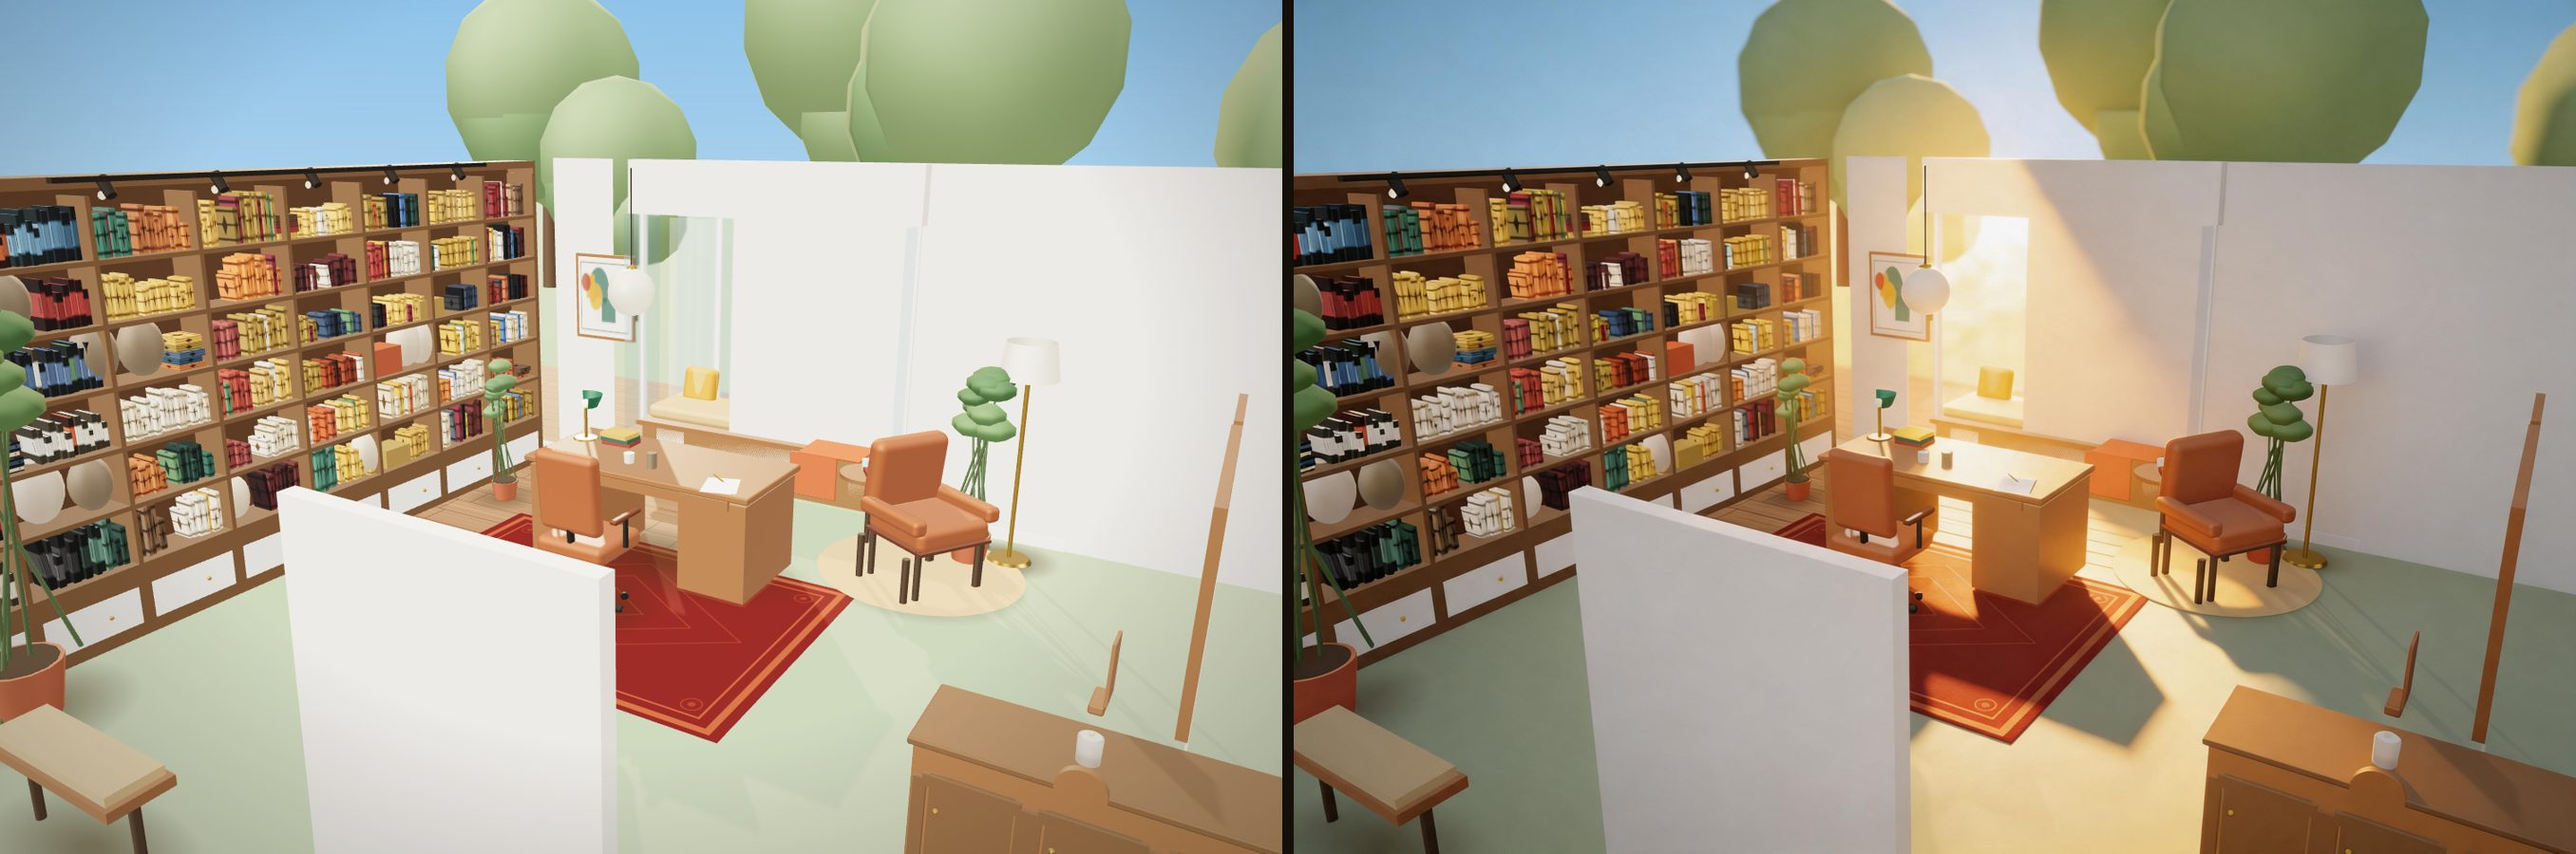
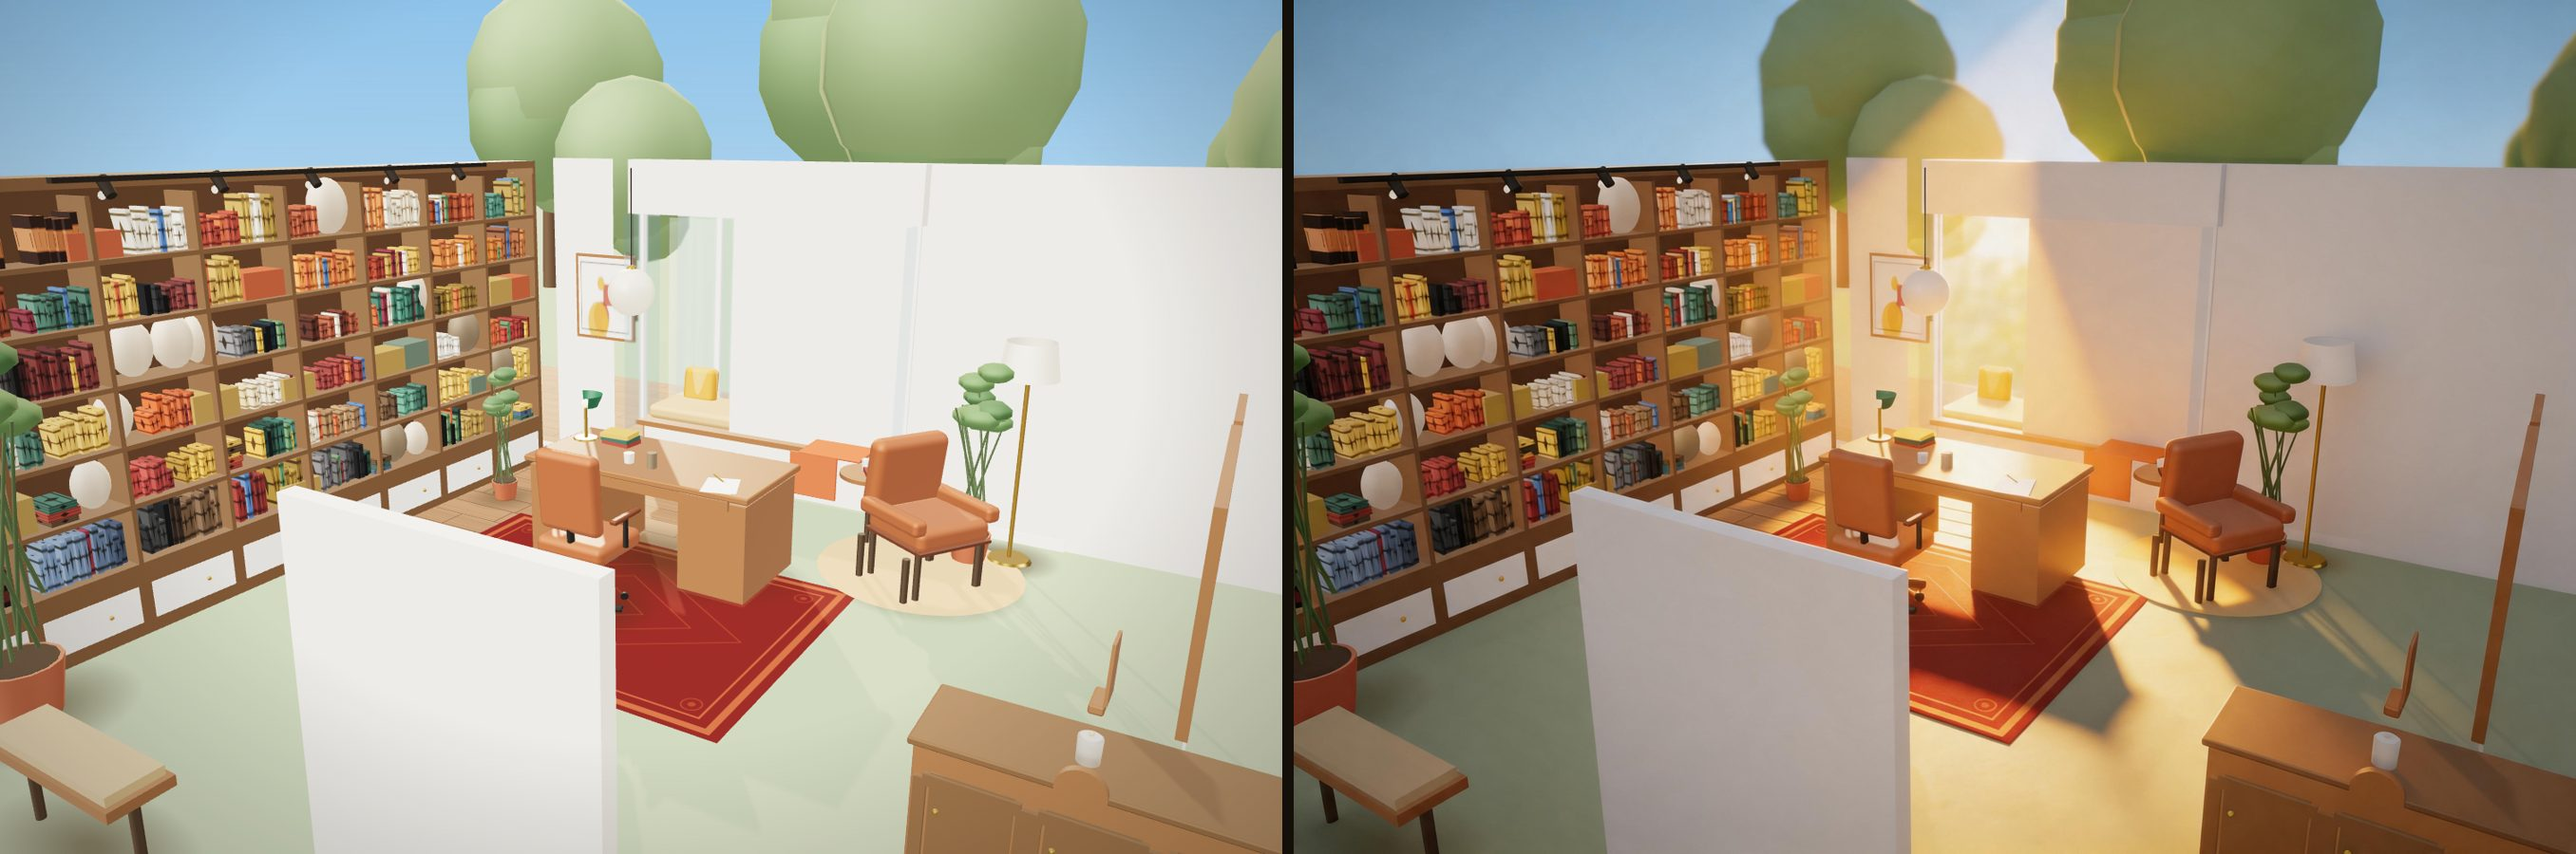
Blender 高模转椅试点：bpy 参数化建模（弧形背板/噪波皮革凹凸）→ Draco GLB(34KB) → GLTFLoader 集成 + palette 材质接管 + 程序化椅降级兜底；写实图全量刷新（剔除即梦错图1张）

diff --git a/index.html b/index.html
@@ -139,6 +139,8 @@ import * as THREE from 'three';
 import {OrbitControls} from 'three/addons/controls/OrbitControls.js';
 import {RoomEnvironment} from 'three/addons/environments/RoomEnvironment.js';
 import {RoundedBoxGeometry} from 'three/addons/geometries/RoundedBoxGeometry.js';
+import {GLTFLoader} from 'three/addons/loaders/GLTFLoader.js';
+import {DRACOLoader} from 'three/addons/loaders/DRACOLoader.js';
 
 /* ================= 基础 ================= */
 const ROOM_W = 5.0, ROOM_D = 6.0, ROOM_H = 2.8;   // x: 西→东  z: 南→北
@@ -648,7 +650,7 @@ function desk(){
     wh.rotation.z=Math.PI/2; wh.rotation.y=-a-Math.PI/2;
     wh.position.set(Math.sin(a)*.245,.027,Math.cos(a)*.245); ch.add(wh); }
   ch.traverse(o=>{if(o.isMesh)o.castShadow=true;});
-  ch.position.set(2.5,0,2.62); ch.rotation.y=0; scene.add(ch); tag(ch,'CHAIR');
+  ch.position.set(2.5,0,2.62); ch.rotation.y=0; scene.add(ch); tag(ch,'CHAIR'); window.__progChair=ch;
 }
 function brass(){return mkMat('#b08d3e',{metalness:.9,roughness:.32});}
 
@@ -870,7 +872,16 @@ let tgt=MODES.day;
 function applyMode(m){ tgt=MODES[m]; scene.background=BG[m]; }
 
 /* ================= 风格切换 ================= */
+let curStyleKey='A';
+function applyGLBPalette(root,P){
+  root.traverse(o=>{ if(!o.isMesh)return;
+    const n=(o.material&&o.material.name||'').toLowerCase();
+    if(n.includes('leather_main')) o.material.color.set(P.leather);
+    else if(n.includes('leather_pip')){ o.material.color.set(P.leather); o.material.color.offsetHSL(0,.04,-.10); }
+  });
+}
 function applyPalette(key){
+  curStyleKey=key;
   const P=PALETTES[key];
   SW.wall.color.set(P.wall); SW.trim.color.set(P.trim); SW.ceil.color.set(P.ceil);
   SW.shelf.color.set(P.shelf); SW.backP.color.set(P.backP); SW.deskW.color.set(P.desk);
@@ -878,6 +889,7 @@ function applyPalette(key){
   SW.throwM.color.set(P.throw); SW.rugS.color.set(P.rugS);
   SW.pil.forEach((m,i)=>m.color.set(P.pillows[i])); SW.baySeat.color.set(P.baySeat);
   drawFloor(P.floor); drawRug(P.rug,P.rugInk);
+  if(window.__glbChair) applyGLBPalette(window.__glbChair,P);
 }
 
 /* ================= 视角预设 ================= */
@@ -955,6 +967,23 @@ credenza();
 lightingFixtures();
 mainRug();
 applyPalette('A');
+/* Blender 高模转椅：加载成功替换程序化椅，失败自动降级 */
+window.__progChair=null;
+{
+  const loader=new GLTFLoader();
+  const draco=new DRACOLoader();
+  draco.setDecoderPath('https://cdn.jsdelivr.net/npm/three@0.160.0/examples/jsm/libs/draco/gltf/');
+  loader.setDRACOLoader(draco);
+  loader.load('blender/chair.glb',(gltf)=>{
+    const m=gltf.scene;
+    m.traverse(o=>{ if(o.isMesh){ o.castShadow=true; o.receiveShadow=true; }});
+    applyGLBPalette(m,PALETTES[curStyleKey]);
+    m.position.set(2.5,0,2.62); m.rotation.y=Math.PI;   // Blender -Y 朝前 → 场景内朝 -Z（书桌）
+    scene.add(m); tag(m,'CHAIR'); window.__glbChair=m;
+    if(window.__progChair){ scene.remove(window.__progChair); window.__progChair=null; }
+    window.__ready2=true;
+  },undefined,err=>console.warn('chair.glb 加载失败，保留程序化椅子'));
+}
 /* 接触阴影：家具落地感 */
 [[2.5,1.72,2.5,1.3,.55],[2.5,2.62,1.0,1.0,.6],[4.25,1.05,1.45,1.45,.62],
  [4.68,.38,.75,.75,.45],[.66,5.28,1.15,1.15,.55],[4.42,.52,.95,.95,.5],

diff --git a/blender/build_chair.py b/blender/build_chair.py
@@ -1,0 +1,130 @@
+import bpy, math, os
+from math import radians as rad
+
+OUT_GLB = os.path.join(os.path.dirname(os.path.abspath(__file__)), "chair.glb")
+OUT_PNG = os.path.join(os.path.dirname(os.path.abspath(__file__)), "chair_preview.png")
+
+bpy.ops.wm.read_factory_settings(use_empty=True)
+scene = bpy.context.scene
+CHAIR = bpy.data.collections.new("CHAIR"); scene.collection.children.link(CHAIR)
+ENV   = bpy.data.collections.new("ENV");   scene.collection.children.link(ENV)
+def link(ob, coll=CHAIR): coll.objects.link(ob); return ob
+
+# ---------- 材质（命名规范：leather_main / leather_pip / plastic_dark / brass / wheel） ----------
+def mat(name, base, rough, metallic=0.0, bump=0.0):
+    m = bpy.data.materials.new(name); m.use_nodes = True
+    bsdf = next(n for n in m.node_tree.nodes if n.type == 'BSDF_PRINCIPLED')
+    bsdf.inputs["Base Color"].default_value = (*base, 1)
+    bsdf.inputs["Roughness"].default_value = rough
+    bsdf.inputs["Metallic"].default_value = metallic
+    if bump > 0:                       # 皮革颗粒：噪波→凹凸（全按类型接线，抗 5.x 改名）
+        n = m.node_tree.nodes.new("ShaderNodeTexNoise"); n.inputs["Scale"].default_value = 900
+        n.inputs["Detail"].default_value = 6
+        bp = m.node_tree.nodes.new("ShaderNodeBump"); bp.inputs["Strength"].default_value = bump
+        m.node_tree.links.new(n.outputs["Factor"], bp.inputs["Height"])
+        m.node_tree.links.new(bp.outputs["Normal"], bsdf.inputs["Normal"])
+    return m
+    return m
+
+M_LEATHER = mat("leather_main", (0.588, 0.322, 0.169), .48, bump=.25)
+M_PIP     = mat("leather_pip",  (0.470, 0.250, 0.115), .50, bump=.25)
+M_PLASTIC = mat("plastic_dark", (0.141, 0.114, 0.086), .55)
+M_BRASS   = mat("brass",        (0.690, 0.553, 0.243), .30, metallic=.9)
+M_WHEEL   = mat("wheel",        (0.090, 0.071, 0.031), .40)
+
+def rounded_box(name, sx, sy, sz, r, pos, m, seg=4):
+    bpy.ops.mesh.primitive_cube_add(size=1)
+    ob = bpy.context.active_object
+    ob.name = name; ob.scale = (sx, sy, sz); bpy.ops.object.transform_apply(scale=True)
+    bevel = ob.modifiers.new("bev", "BEVEL"); bevel.width = r; bevel.segments = seg
+    ob.location = pos; ob.data.materials.append(m); return link(ob)
+
+def cyl(name, r1, r2, h, pos, m, rx=0.0, ry=0.0, rz=0.0, verts=24):
+    # 5.2 起算子只支持单一 radius；原锥度差≤4mm，直接取大半径直柱
+    bpy.ops.mesh.primitive_cylinder_add(vertices=verts, radius=max(r1, r2), depth=h)
+    ob = bpy.context.active_object; ob.name = name
+    ob.location = pos; ob.rotation_euler = (rx, ry, rz)
+    ob.data.materials.append(m); return link(ob)
+
+def arc_shell(name, R, ang_deg, height, y_arc_center, z_center, thickness, m):
+    """竖直弧形壳：凹面朝 -Y（坐者）。参数化网格 + solidify，绝无整圆筒。"""
+    verts, faces = [], []
+    n = 28
+    a0, a1 = -rad(ang_deg/2), rad(ang_deg/2)
+    for lvl, z in enumerate((z_center-height/2, z_center+height/2)):
+        for i in range(n+1):
+            t = a0 + (a1-a0)*i/n
+            verts.append((R*math.sin(t), y_arc_center - R*math.cos(t), z))
+    for i in range(n):
+        faces.append((i, i+1, n+1+i+1, n+1+i))
+    me = bpy.data.meshes.new(name); me.from_pydata(verts, [], faces)
+    ob = bpy.data.objects.new(name, me); link(ob)
+    sol = ob.modifiers.new("sol", "SOLIDIFY"); sol.thickness = thickness
+    ob.data.materials.append(m); return ob
+
+# ---------- 建模（Blender Z-up，椅子面朝 -Y，背板在 +Y） ----------
+rounded_box("seat_cushion", .52, .48, .13, .045, (0, 0, .47), M_LEATHER)
+cyl("seat_tray", .235, .215, .026, (0, 0, .399), M_PLASTIC)
+arc_shell("back_shell", .62, 92, .54, .75, .86, .06, M_LEATHER)
+rounded_box("lumbar", .32, .06, .17, .025, (0, .135, .68), M_PIP)
+neck = cyl("neck", .022, .028, .26, (0, .205, .51), M_PLASTIC); neck.rotation_euler = (rad(-10), 0, 0)
+for sx in (-1, 1):
+    cyl(f"arm_post_{'L' if sx<0 else 'R'}", .016, .019, .20, (sx*.27, -.02, .575), M_PLASTIC)
+    rounded_box(f"arm_pad_{'L' if sx<0 else 'R'}", .055, .30, .032, .013, (sx*.27, -.02, .685), M_PIP)
+cyl("gaslift", .024, .028, .33, (0, 0, .225), M_BRASS)
+cyl("hub", .048, .054, .042, (0, 0, .052), M_PLASTIC)
+for i in range(5):
+    a = i/5 * 2*math.pi
+    leg = rounded_box(f"leg_{i}", .31, .058, .03, .011, (math.sin(a)*.105, math.cos(a)*.105, .034), M_PLASTIC)
+    leg.rotation_euler = (0, 0, math.pi/2 - a)
+    cyl(f"caster_{i}", .027, .027, .02, (math.sin(a)*.245, math.cos(a)*.245, .027), M_WHEEL, rx=rad(90), rz=-a-math.pi/2)
+    rounded_box(f"caster_fork_{i}", .055, .028, .03, .008, (math.sin(a)*.225, math.cos(a)*.225, .056), M_PLASTIC)
+
+for ob in CHAIR.objects:                      # 圆柱/软包平滑着色
+    if ob.type == 'MESH':
+        for p in ob.data.polygons: p.use_smooth = True
+        mod = ob.modifiers.new("asm", "SMOOTH_BY_ANGLE") if False else None
+        try: bpy.context.view_layer.objects.active = ob; bpy.ops.object.shade_auto_smooth(angle=rad(40))
+        except Exception: pass
+
+# ---------- 预览渲染环境（不进 GLB） ----------
+ground = bpy.ops.mesh.primitive_plane_add(size=8); ground = bpy.context.active_object
+ground.location = (0, 0, 0); link(ground, ENV)
+gm = bpy.data.materials.new("g"); gm.use_nodes = True
+gm.node_tree.nodes["Principled BSDF"].inputs["Base Color"].default_value = (.32, .28, .23, 1)
+gm.node_tree.nodes["Principled BSDF"].inputs["Roughness"].default_value = .9
+ground.data.materials.append(gm)
+
+def area(name, loc, rot, power, size=.8, color=(1, .93, .82)):
+    ld = bpy.data.lights.new(name, 'AREA'); ld.energy = power; ld.size = size; ld.color = color
+    ob = bpy.data.objects.new(name, ld); ob.location = loc; ob.rotation_euler = rot; link(ob, ENV); return ob
+area("key",   (1.8, -1.6, 2.0), (rad(52), 0, rad(35)), 320)
+area("fill", (-2.2, -1.0, 1.3), (rad(62), 0, rad(-45)), 110)
+area("rim",   (-.6, 2.6, 1.9), (rad(-58), 0, rad(180)), 160)
+
+cam_d = bpy.data.cameras.new("cam"); cam_d.lens = 40
+cam = bpy.data.objects.new("cam", cam_d); cam.location = (1.45, -1.85, 1.05); link(cam, ENV)
+cam.rotation_euler = (rad(74), 0, rad(37.5))
+scene.camera = cam
+
+scene.render.engine = 'CYCLES'
+scene.cycles.samples = 96
+scene.cycles.use_denoising = True
+try:
+    scene.cycles.device = 'GPU'
+    prefs = bpy.context.preferences.addons['cycles'].preferences
+    prefs.compute_device_type = 'METAL'; prefs.get_devices()
+    for d in prefs.devices: d.use = True
+except Exception as e:
+    print("GPU fallback CPU:", e)
+scene.render.resolution_x = 1200; scene.render.resolution_y = 900
+scene.render.filepath = OUT_PNG
+bpy.ops.render.render(write_still=True)
+
+# ---------- 导出 GLB（Draco） ----------
+bpy.ops.object.select_all(action='DESELECT')
+for ob in CHAIR.objects: ob.select_set(True)
+bpy.ops.export_scene.gltf(filepath=OUT_GLB, export_format='GLB', use_selection=True,
+    export_yup=True, export_draco_mesh_compression_enable=True,
+    export_draco_mesh_compression_level=6)
+print("EXPORTED", OUT_GLB, OUT_PNG, os.path.getsize(OUT_GLB))

diff --git a/家装资源调研-20260827.md b/家装资源调研-20260827.md
@@ -1,0 +1,59 @@
+# GitHub 家装设计资源调研（2026-08-27）
+
+> 调研目的：为"户型图→全屋方案+效果展示"管线寻找可借鉴资源。
+> 方法：gh search repos 多关键词 + 重点仓库 README 深读。
+
+## A. 户型图识别（补"户型图→结构化数据"环节）
+
+| 仓库 | 星 | 要点 | 落地评估 |
+|---|---|---|---|
+| CubiCasa/CubiCasa5k | 568 | 著名户型数据集(5000样本/80+类多边形标注)+多任务识别模型 | 环境老(PyTorch1.0/CUDA)；识别"规整制图"可用，手绘/照片一般 |
+| zcemycl/TF2DeepFloorplan | 268 | 同论文 TF2 重写，**支持 Mac M1**，pip 安装表齐全，GPLv3 | 本机可试点；输出墙体矢量加速测绘确认单 |
+| art-programmer/FloorplanTransformation | — | Raster-to-Vector 原作(被上两者引用) | 思路源头 |
+
+结论：识别模型作为"加速器"，主流程仍以 VLM 读图+人工《测绘确认单》为准（对模糊输入最稳）。
+
+## B. 全屋工具形态（交互/产品参考）
+
+| 仓库 | 星 | 要点 |
+|---|---|---|
+| mehanix/arcada | 399 | react+pixi.js 户型绘制器，产品形态完整 |
+| ekymo/homeRoughEditor | 393 | SVG 户型编辑器，纯 JS 轻量，交互代码可直接拆 |
+| vitorabner/decoraki | 144 | 3D 室内模拟器 |
+
+## C. AI 实景化（与 dreamina 管线互证/增强）★价值最高
+
+| 仓库 | 星 | 要点 |
+|---|---|---|
+| Nutlope/roomGPT | 10671 | ControlNet+Replicate 上传照片重设计——**验证了"条件控制比纯 img2img 保形更稳"** |
+| Lavreniuk/generative-interior-design | 129 | 2024竞赛第2名 StableDesign：SD img2img+ControlNet+LoRA 风格微调，参数可抄，HF Space 在线可玩 |
+| alaradirik/sd-interior-design | 109 | 同路线：布局保持写实化 |
+| siegblink/interior-designer-ai | 211 | 照片→设计 简洁 SaaS 形态 |
+
+→ 启发：从 Three.js 场景直接渲 depth/线稿图作条件输入，比现管线"截图 img2img"结构保真更强；若即梦不支持条件控制，本机 ComfyUI+SD+ControlNet 是升级路径（StableDesign 配方可参考）。
+
+## D. 场景自动布局（未来加分项，观望）
+
+| 仓库 | 星 | 要点 |
+|---|---|---|
+| nv-tlabs/ATISS | 339 | NVIDIA NeurIPS21 自回归室内场景合成 |
+| tangjiapeng/DiffuScene | 344 | CVPR24 扩散模型室内场景生成 |
+| usama2762/Furniture-Optimization | 19 | 贪心家具排布论文复现(Python) |
+
+训练数据为 3D-FRONT 西方合成风格，中式家装偏离；适合未来做"初始摆位建议器"。
+
+## E. 资产库（质感跃升捷径）
+
+| 仓库 | 星 | 要点 |
+|---|---|---|
+| CreativeDesigner3D/Library_Home_Builder | 120 | Blender 建筑室内资产库，可导 glTF 进 Three.js |
+| IvonaTau/ikea | 148 | IKEA 室内布局数据集(研究用) |
+
+引入 GLTFLoader+现成 GLB 家具可替代部分程序化盒子，质感收益大；代价是资产管理和加载管线改造（中等）。
+
+## 行动优先级
+
+1. **短期**：C 类条件控制思路——Three.js 输出 depth/线稿喂写实管线（本机 ComfyUI 可行则上，StableDesign 参数照抄）
+2. **短期第二**：E 类 GLB 资产试点一间房，对比程序化建模的质感收益
+3. **中期**：A 类 TF2DeepFloorplan(M1) 户型识别试点，加速测绘确认单
+4. **观望**：D 类自动布局，全屋跑通后作摆位建议加分项
